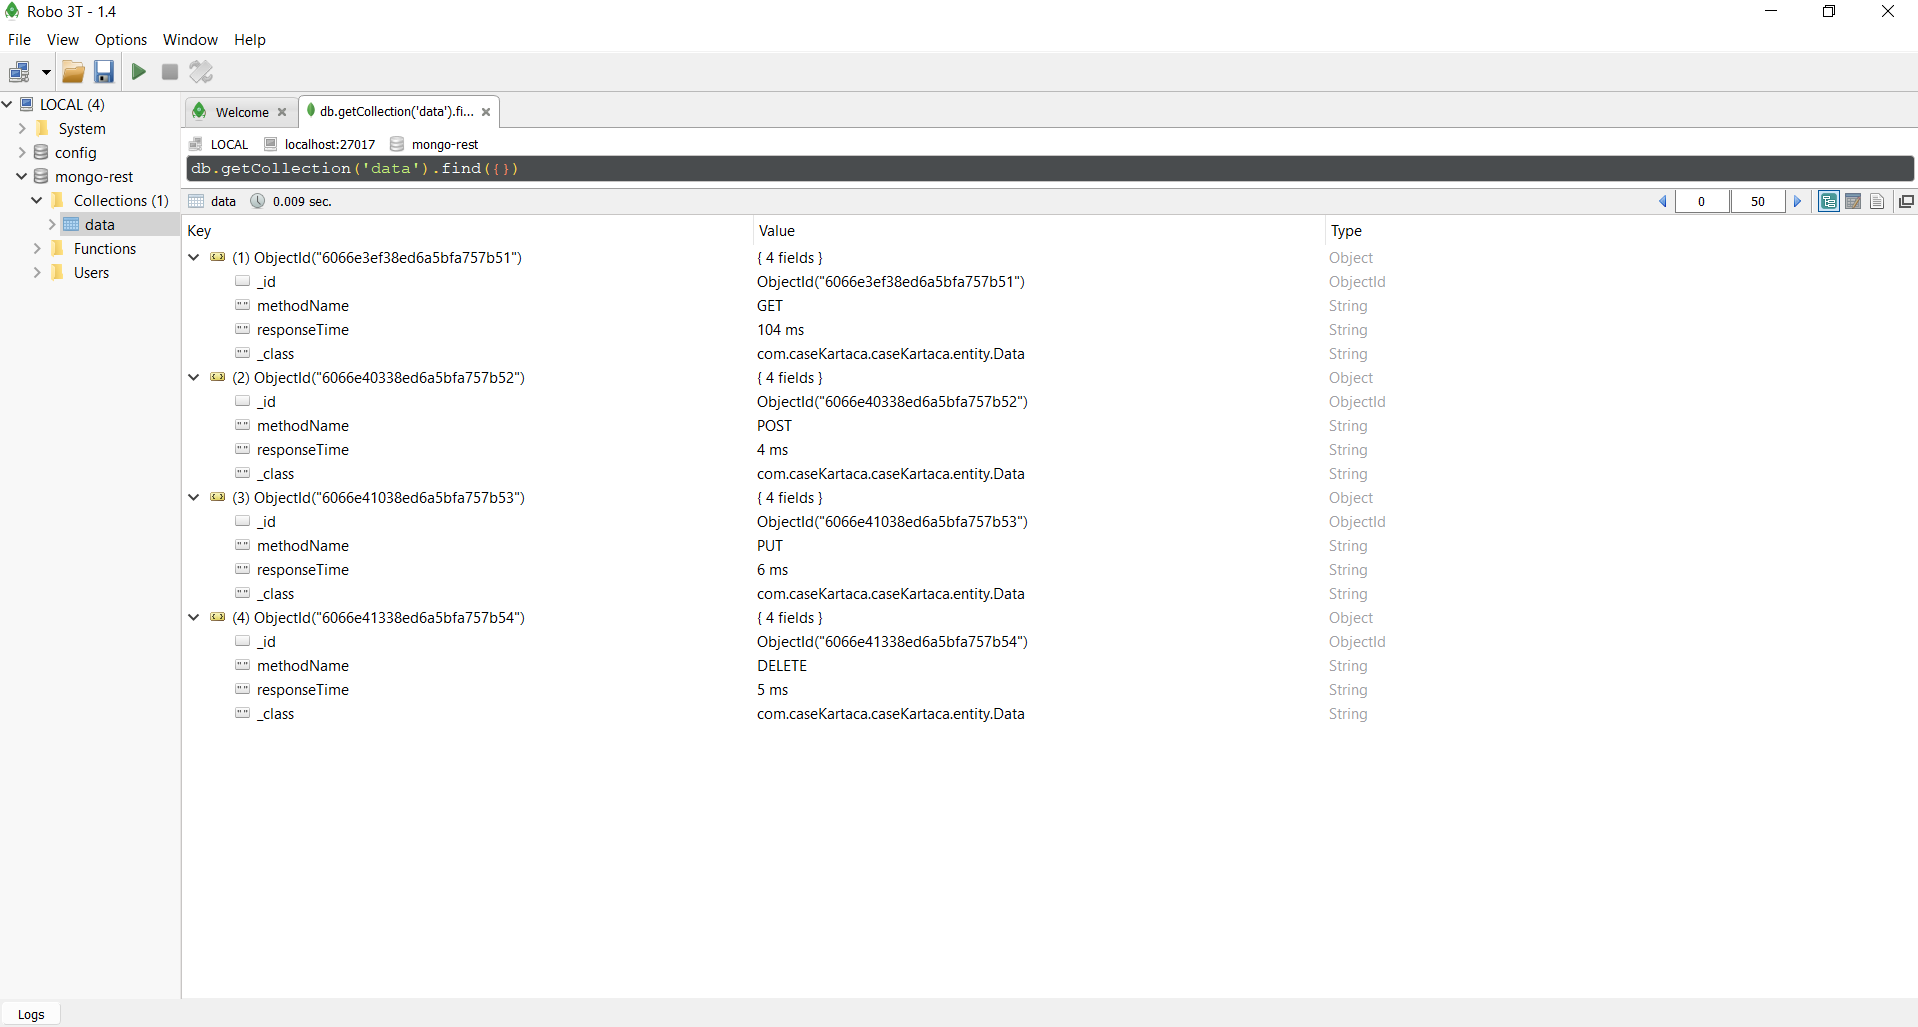
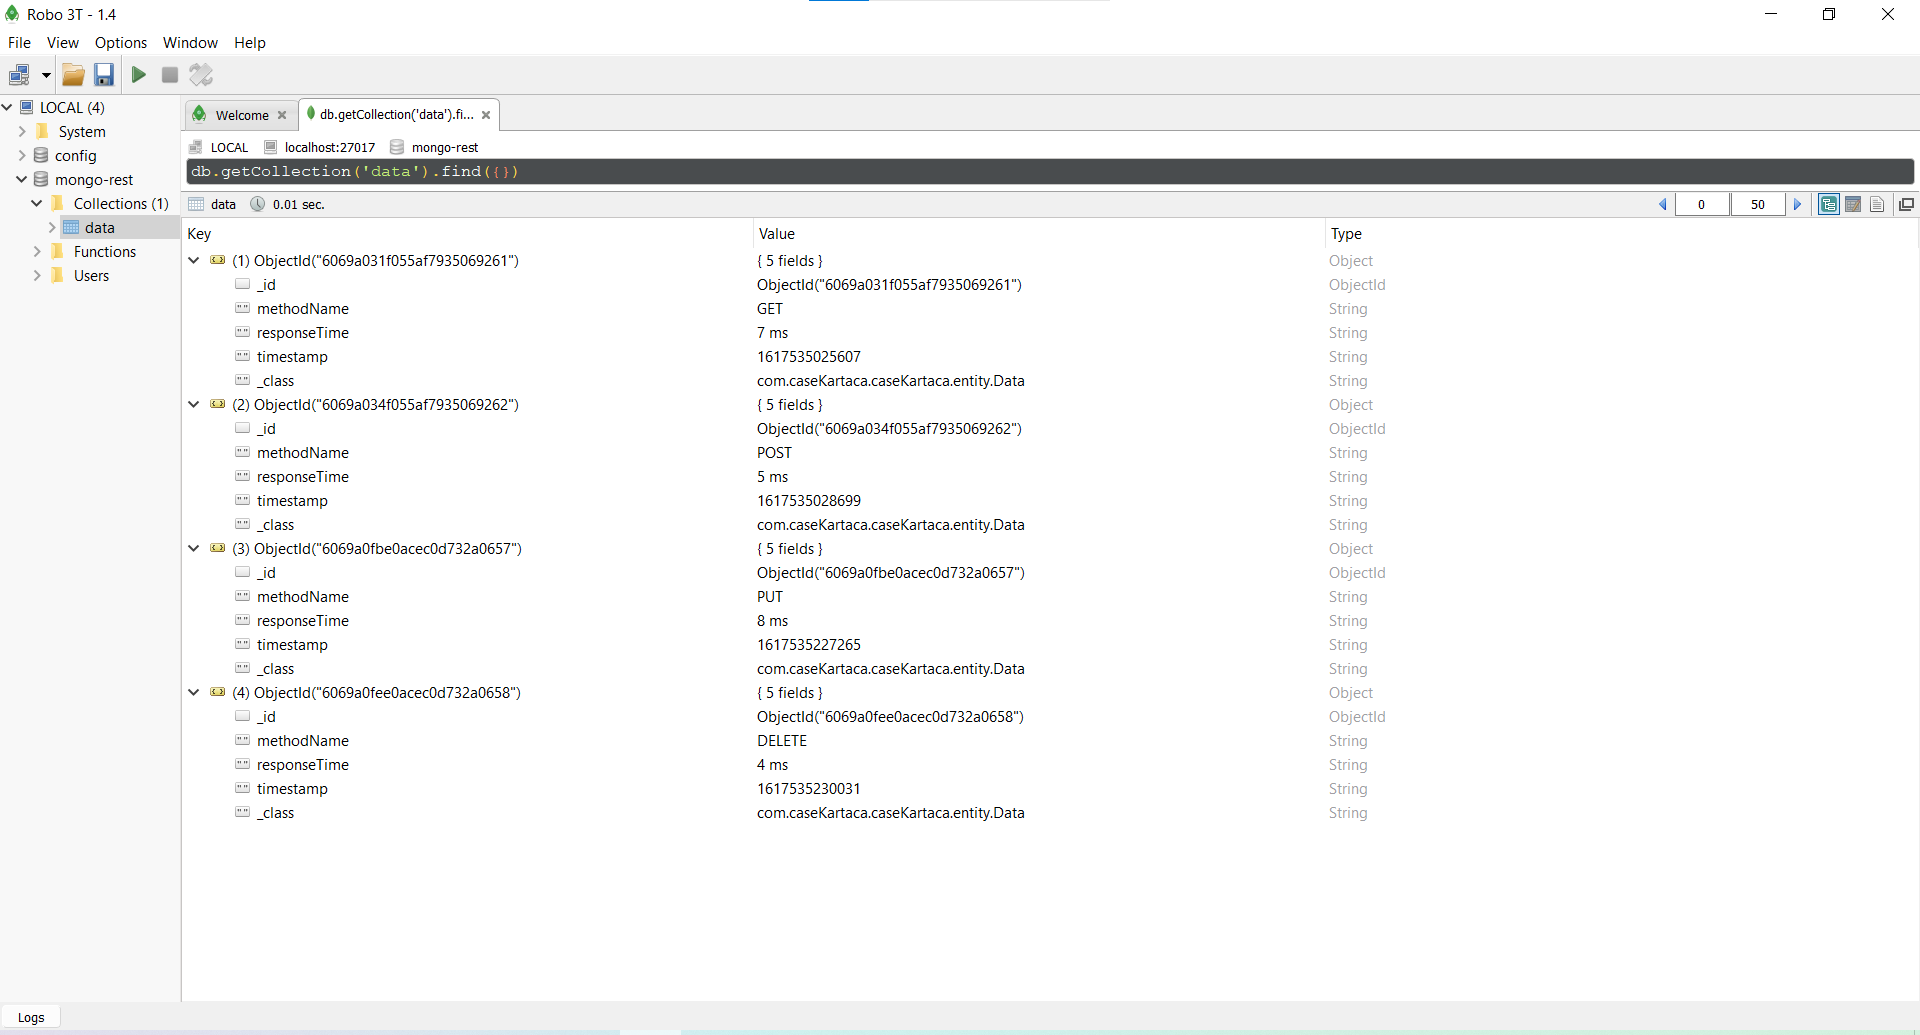
last changes

diff --git a/case-Kartaca/src/main/java/com/caseKartaca/caseKartaca/KafkaListenerService.java b/case-Kartaca/src/main/java/com/caseKartaca/caseKartaca/KafkaListenerService.java
@@ -23,10 +23,11 @@ public class KafkaListenerService {
         long endTime = System.currentTimeMillis();
         long responseTime = endTime-startTime;
         log.info("Message received.. Message : {} ",
-                messageArray[0]+", "+responseTime+" ms");
+                messageArray[0]+", "+"Response time: "+responseTime+" ms , "+"Timestamp: "+startTime);
         Data data = new Data();
         data.setMethodName(messageArray[0]);
         data.setResponseTime(responseTime+" ms");
+        data.setTimestamp(startTime+"");
         dataRepository.save(data);
     }
 }

diff --git a/case-Kartaca/src/main/java/com/caseKartaca/caseKartaca/config/KafkaConfiguration.java b/case-Kartaca/src/main/java/com/caseKartaca/caseKartaca/config/KafkaConfiguration.java
@@ -51,7 +51,6 @@ public class KafkaConfiguration {
         Map<String, Object> props = new HashMap<>();
         props.put(ConsumerConfig.BOOTSTRAP_SERVERS_CONFIG, kafkaAddress);
         props.put(ConsumerConfig.GROUP_ID_CONFIG, groupId);
-        //props.put(JsonDeserializer.VALUE_DEFAULT_TYPE, KMessage.class);
         props.put(ConsumerConfig.KEY_DESERIALIZER_CLASS_CONFIG, StringDeserializer.class);
         props.put(ConsumerConfig.VALUE_DESERIALIZER_CLASS_CONFIG, JsonDeserializer.class);
         return new DefaultKafkaConsumerFactory<>(props);

diff --git a/case-Kartaca/src/main/java/com/caseKartaca/caseKartaca/entity/Data.java b/case-Kartaca/src/main/java/com/caseKartaca/caseKartaca/entity/Data.java
@@ -9,6 +9,7 @@ public class Data {
     private String id;
     private String methodName;
     private String responseTime;
+    private String timestamp;
 
     public String getId() {
         return id;
@@ -32,5 +33,13 @@ public class Data {
 
     public void setResponseTime(String responseTime) {
         this.responseTime = responseTime;
+    }
+
+    public String getTimestamp() {
+        return timestamp;
+    }
+
+    public void setTimestamp(String timestamp) {
+        this.timestamp = timestamp;
     }
 }

diff --git a/case-Kartaca/src/main/java/com/caseKartaca/caseKartaca/api/PersonalController.java b/case-Kartaca/src/main/java/com/caseKartaca/caseKartaca/api/PersonalController.java
@@ -21,7 +21,7 @@ public class PersonalController {   //http://localhost:8080/personals
     private String topic;
 
     private final KafkaTemplate<String,String> kafkaTemplate;
-    public int s=LocalDateTime.now().getSecond();
+
 
     @GetMapping
     public String getPersonal(){
